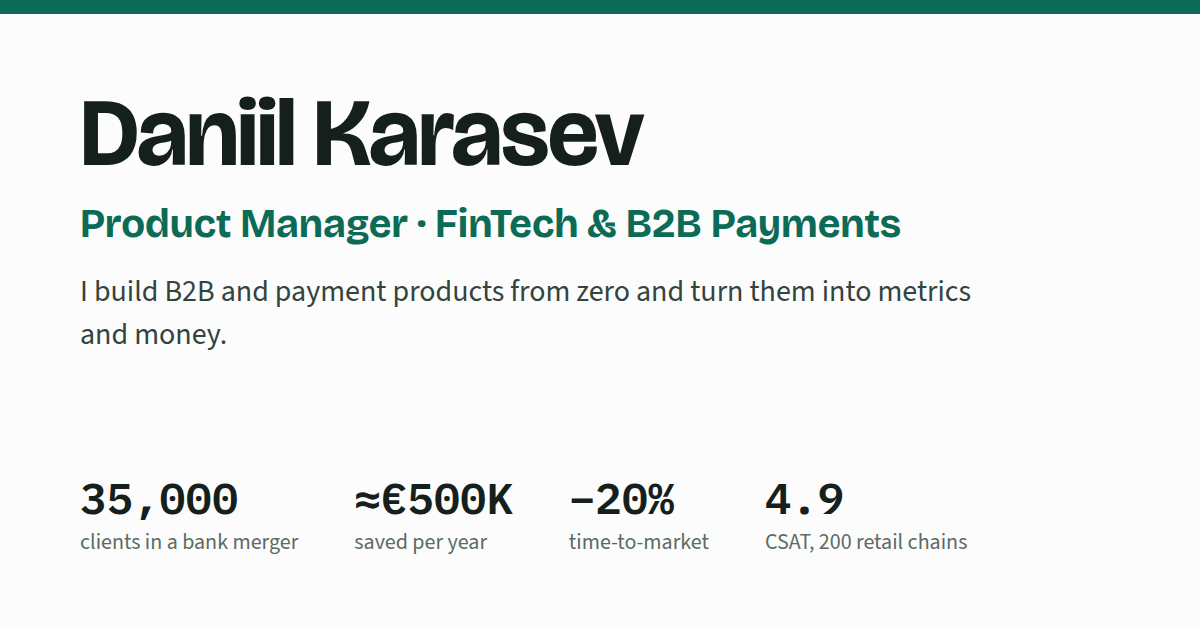
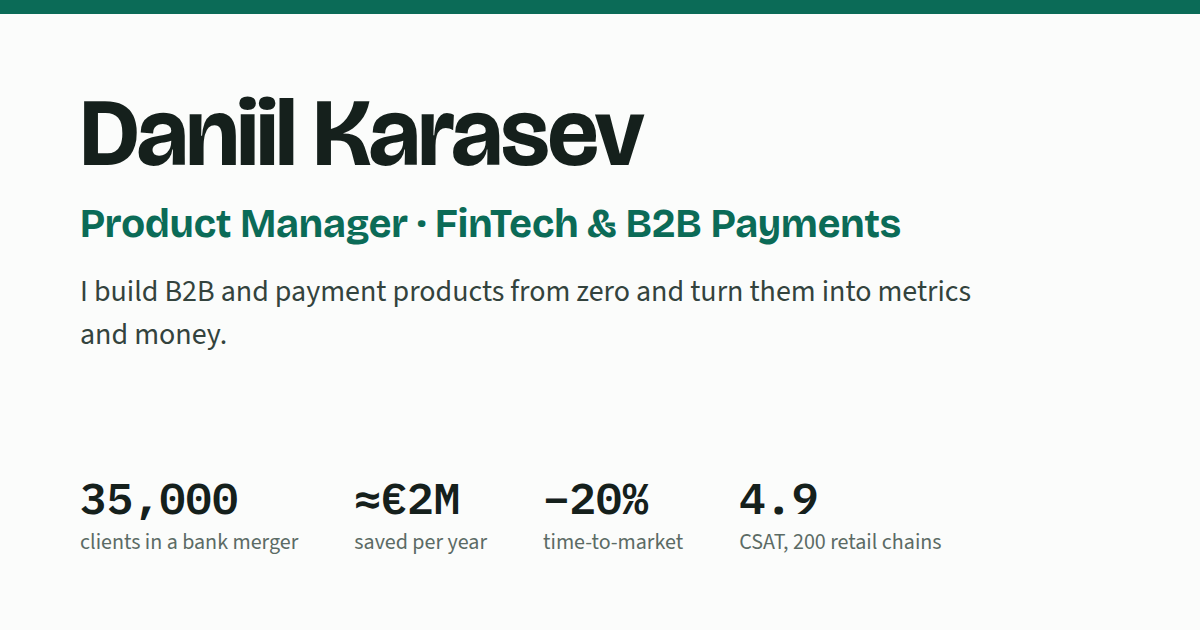
Update cost savings figure to ≈€2M per year
Claude-Session: https://claude.ai/code/session_019qbJQbKRzKrwLutCdmL58W

diff --git a/index.html b/index.html
@@ -46,7 +46,7 @@
     <div class="numbers">
       <div class="number"><span class="fig">4+ yrs</span><span class="what">in product at a top-5 CIS FinTech</span></div>
       <div class="number"><span class="fig">35,000</span><span class="what">corporate clients in a post-merger migration</span></div>
-      <div class="number"><span class="fig">≈€500K</span><span class="what">per year in operating cost savings</span></div>
+      <div class="number"><span class="fig">≈€2M</span><span class="what">per year in operating cost savings</span></div>
       <div class="number"><span class="fig">−20%</span><span class="what">time-to-market, with 90% on-time delivery</span></div>
     </div>
   </header>
@@ -82,7 +82,7 @@
           <div class="cols">
             <div><p class="label">Problem</p><p>About 35,000 mid-market and large corporate clients had to move to new service systems, while legacy systems were switched off on hard deadlines.</p></div>
             <div><p class="label">What I did</p><p>Led the service migration with a team of 8, designed the target service model across 10 teams, and kept C-level stakeholders aligned as inputs changed.</p></div>
-            <div class="result"><p class="label">Result</p><p><span class="delta">17,000</span> clients migrated on schedule and <span class="delta">≈€500K/yr</span> saved.</p></div>
+            <div class="result"><p class="label">Result</p><p><span class="delta">17,000</span> clients migrated on schedule and <span class="delta">≈€2M/yr</span> saved.</p></div>
           </div>
         </article>
 
